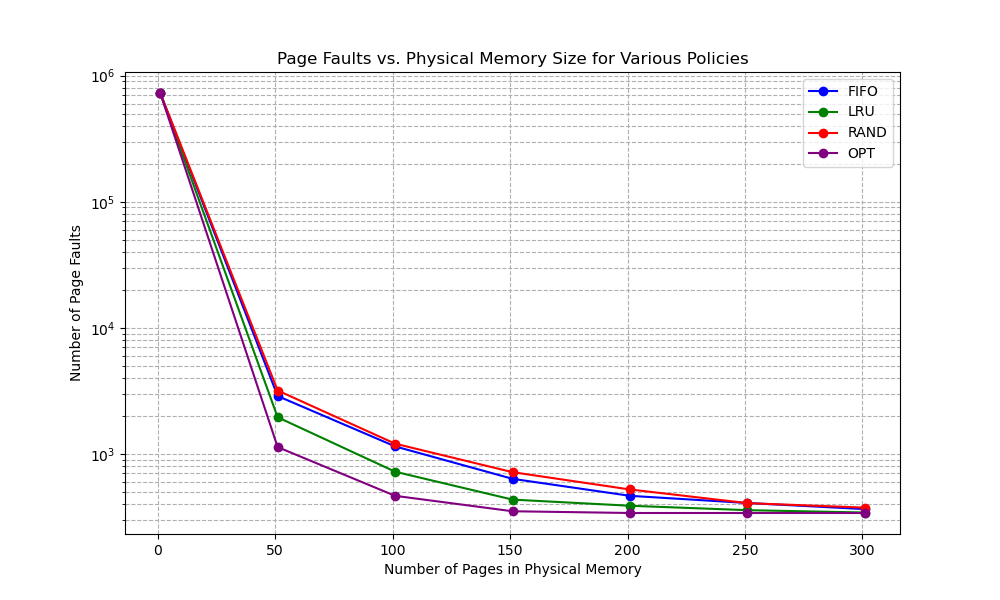
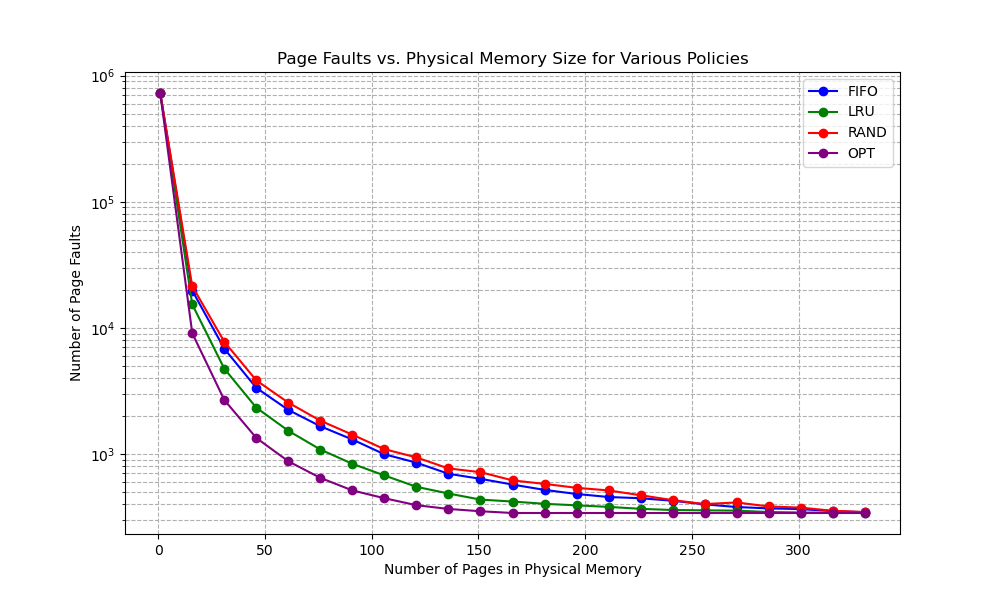
submitted

diff --git a/STY25/vika6/P6/assignment06-templates/p1/sim-paging.py b/STY25/vika6/P6/assignment06-templates/p1/sim-paging.py
@@ -100,13 +100,12 @@ def run_simulations(trace_file, policies=['FIFO', 'LRU', 'OPT']):
 
     unique_pages = set(page_list)
     num_unique_pages = len(unique_pages) 
-    print(f"Number of unique pages (inside the run_simulations function): {num_unique_pages}")
 
 
     # To avoid an enormous x-axis, we sample the memory sizes.
     # For instance, if num_unique is large, use increments of 10.
     if num_unique_pages > 100:
-        step = 50
+        step = 15
     else:
         step = 1
     memory_sizes = list(range(1, num_unique_pages+1, step))
@@ -156,8 +155,8 @@ if __name__ == "__main__":
     print("Instruction Pages:", instructions)
     # testing the export_page_trace function
     deduped = export_page_trace(pages, "output.txt")
-    unique_after = len(set(deduped))
-    print("Unique pages after deduplication:", unique_after)
+    # unique_after = len(set(deduped))
+    # print("Unique pages after deduplication:", unique_after)
     # printing the ouput of export_page_trace
     # print("New Page Access List (deduplicated):", new_list[:20], "...")
     # testing the simulate_page_replacement function
